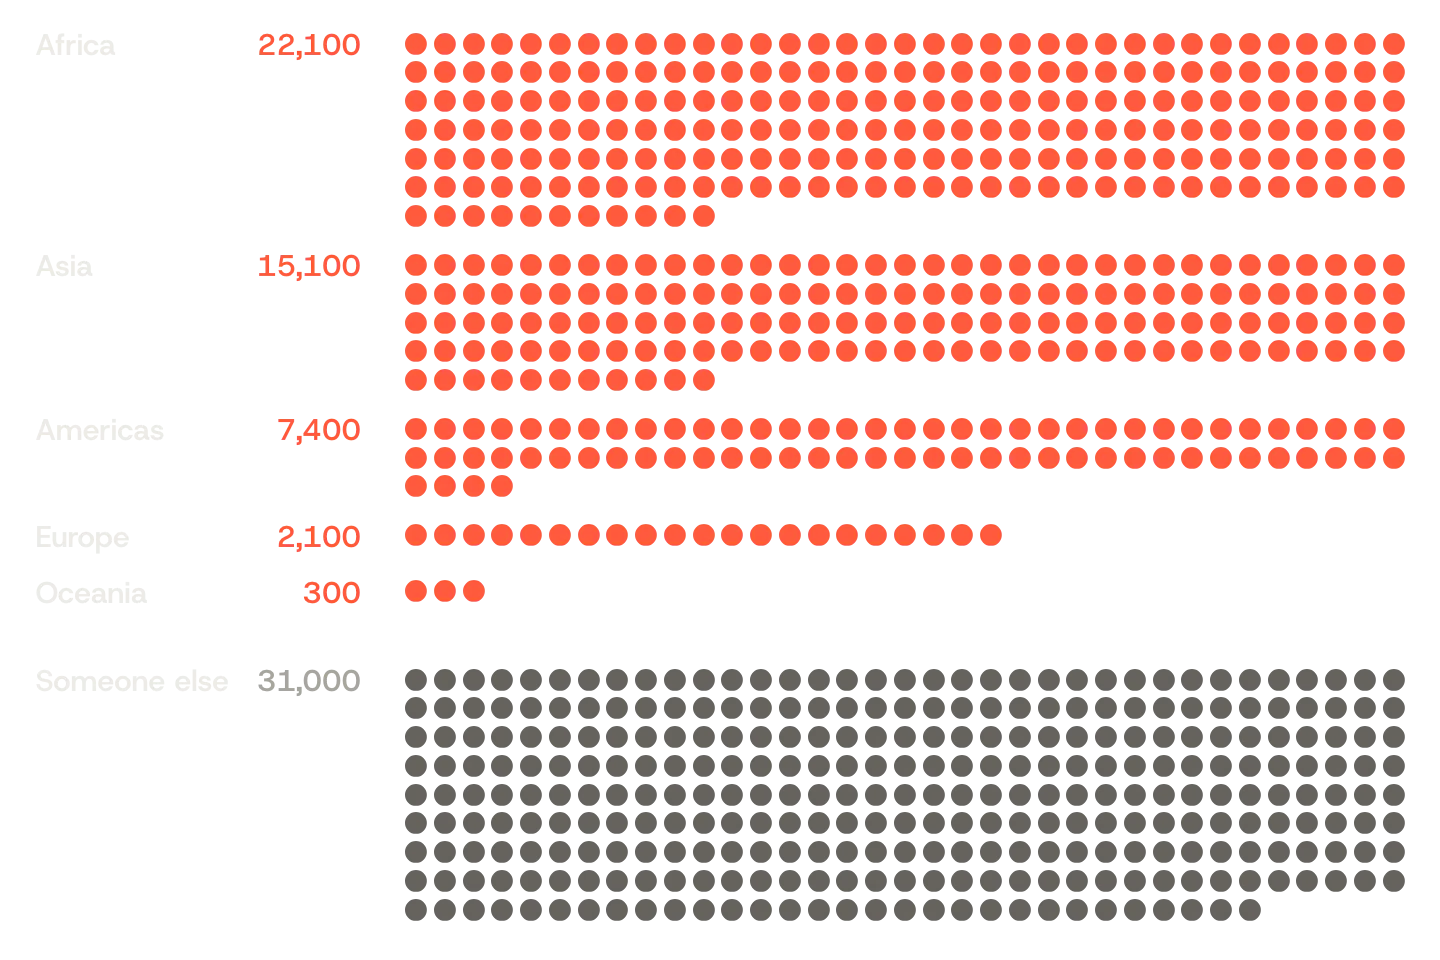
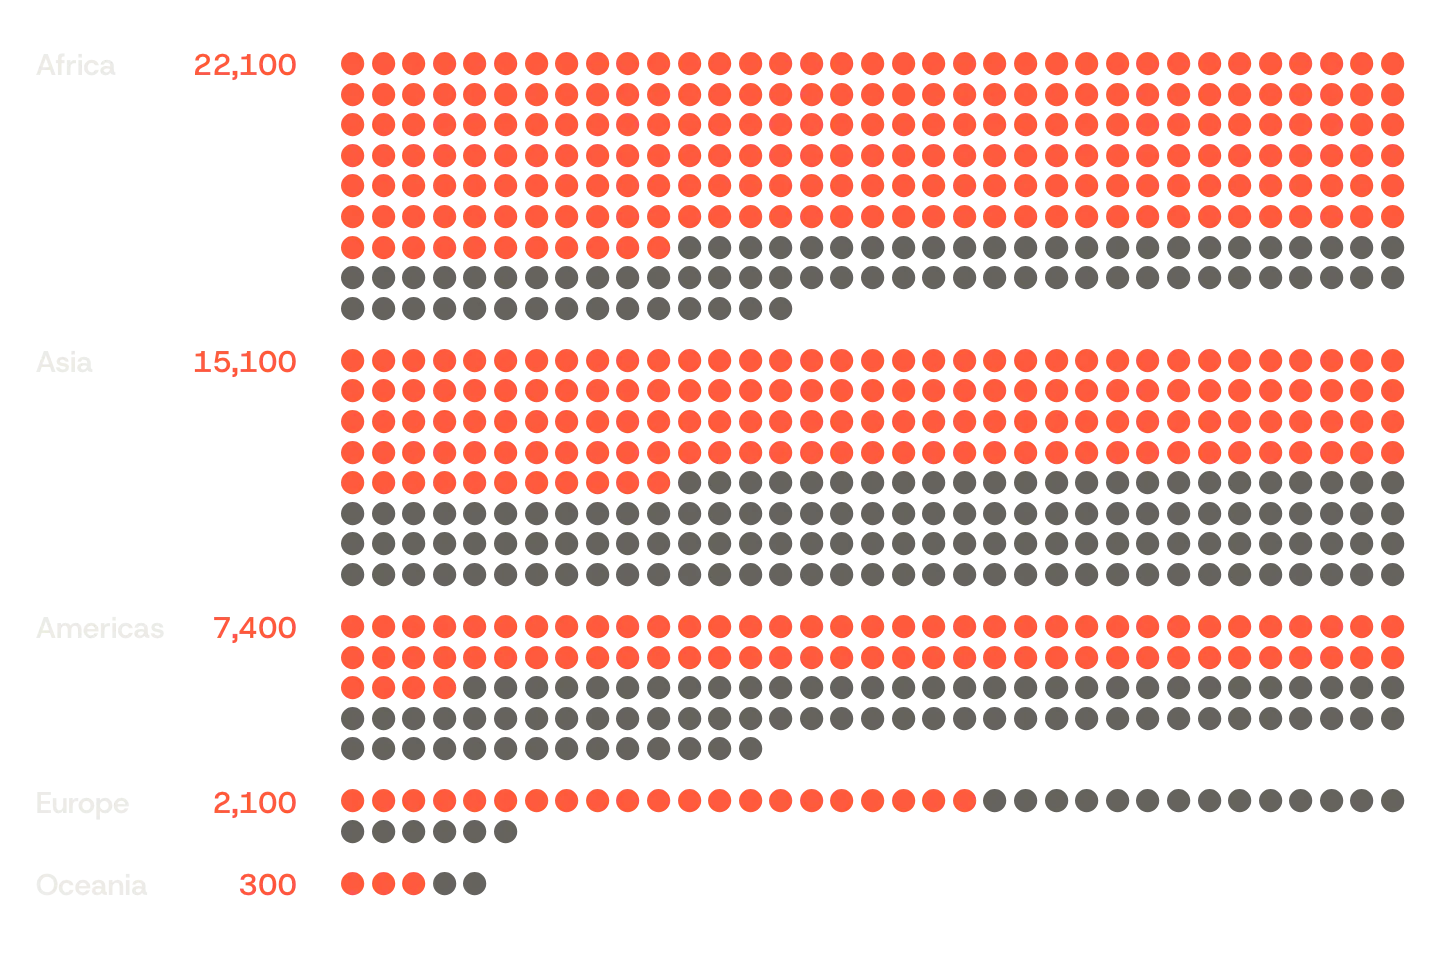
25 Nov: split each region into partner-or-relative and someone else
Each region's block now holds all the women and girls murdered there: red for those
killed by a partner or a relative, then grey for anyone else. The regional totals are
derived (count / share, to the hundred; they sum to 77,500 against the brief's 78,000),
as noted in data.js. A picked block reads "Asia: 15,100 of about 28,000" and one sentence.

diff --git a/2026-11-25/index.html b/2026-11-25/index.html
@@ -4,7 +4,7 @@
   <meta charset="utf-8">
   <meta name="viewport" content="width=device-width, initial-scale=1, viewport-fit=cover">
   <title>In 2025, partners and relatives killed about 47,000 women and girls, 129 a day · casualdata</title>
-  <meta name="description" content="780 dots, one for every 100 of the about 78,000 women and girls murdered in 2025. In red, the 47,000 killed by a current or former partner or another family member, 129 a day, by region: Africa 22,100, Asia 15,100, the Americas 7,400, Europe 2,100, Oceania 300. In grey, the 31,000 killed by someone else.">
+  <meta name="description" content="One dot for every 100 women and girls murdered in 2025, in a block for each region. In red, the 47,000 killed by a current or former partner or another family member, 129 a day: Africa 22,100 of about 29,500, Asia 15,100 of 28,000, the Americas 7,400 of 15,400, Europe 2,100 of 4,100, Oceania 300 of 500. In grey, those killed by someone else.">
   <meta name="theme-color" content="#FFFFFF">
   <meta property="og:type" content="article">
   <meta property="og:title" content="In 2025, partners and relatives killed about 47,000 women and girls, 129 a day">
@@ -13,7 +13,7 @@
   <meta property="og:image" content="https://casualdata.com/2026-11-25/card.png">
   <meta property="og:image:width" content="1200">
   <meta property="og:image:height" content="630">
-  <meta property="og:image:alt" content="780 dots, one for every 100 women and girls murdered in 2025. 470 red dots, in blocks for Africa, Asia, the Americas, Europe and Oceania, are the 47,000 killed by a partner or a relative; 310 grey dots are the 31,000 killed by someone else.">
+  <meta property="og:image:alt" content="Dots in five blocks, one for every 100 women and girls murdered in 2025 in Africa, Asia, the Americas, Europe and Oceania. In each block the red dots, 470 in all, are those killed by a partner or a relative; the grey ones, those killed by someone else. Africa's block is three quarters red, the Americas' and Europe's about half.">
   <meta name="twitter:card" content="summary_large_image">
   <link rel="icon" href="/kit/favicon.svg?v=a2177b6d" type="image/svg+xml">
   <link rel="preload" href="/fonts/host-grotesk-latin.woff2" as="font" type="font/woff2" crossorigin>
@@ -28,11 +28,11 @@
   <meta property="og:site_name" content="casualdata">
   <meta property="og:locale" content="en_US">
   <meta name="twitter:title" content="In 2025, partners and relatives killed about 47,000 women and girls, 129 a day">
-  <meta name="twitter:description" content="780 dots, one for every 100 of the about 78,000 women and girls murdered in 2025. In red, the 47,000 killed by a current or former partner or another family member, 129 a day, by region: Africa 22,100, Asia 15,100, the Americas 7,400, Europe 2,100, Oceania 300. In grey, the 31,000 killed by someone else.">
+  <meta name="twitter:description" content="One dot for every 100 women and girls murdered in 2025, in a block for each region. In red, the 47,000 killed by a current or former partner or another family member, 129 a day: Africa 22,100 of about 29,500, Asia 15,100 of 28,000, the Americas 7,400 of 15,400, Europe 2,100 of 4,100, Oceania 300 of 500. In grey, those killed by someone else.">
   <meta name="twitter:image" content="https://casualdata.com/2026-11-25/card.png">
-  <meta name="twitter:image:alt" content="780 dots, one for every 100 women and girls murdered in 2025. 470 red dots, in blocks for Africa, Asia, the Americas, Europe and Oceania, are the 47,000 killed by a partner or a relative; 310 grey dots are the 31,000 killed by someone else.">
+  <meta name="twitter:image:alt" content="Dots in five blocks, one for every 100 women and girls murdered in 2025 in Africa, Asia, the Americas, Europe and Oceania. In each block the red dots, 470 in all, are those killed by a partner or a relative; the grey ones, those killed by someone else. Africa's block is three quarters red, the Americas' and Europe's about half.">
   <script type="application/ld+json">
-{"@context":"https://schema.org","@graph":[{"@type":"Organization","@id":"https://casualdata.com/#org","name":"casualdata","alternateName":"{casualdata}","url":"https://casualdata.com/","logo":{"@type":"ImageObject","url":"https://casualdata.com/img/og/logo.png","width":512,"height":512},"foundingDate":"2005","description":"casualdata publishes one new interactive data visualization every day: a chart, map or picture of the day's news and data, each on its own dated page with its sources. It also keeps casualdata's data visualization art projects from 2007 to 2011.","founder":{"@type":"Person","@id":"https://mahiryavuz.com/#person","name":"Mahir Yavuz","url":"https://mahiryavuz.com/"},"knowsAbout":["data visualization","information design","data journalism","generative art"]},{"@type":"WebSite","@id":"https://casualdata.com/#website","url":"https://casualdata.com/","name":"casualdata","description":"casualdata publishes one new interactive data visualization every day: a chart, map or picture of the day's news and data, each on its own dated page with its sources. It also keeps casualdata's data visualization art projects from 2007 to 2011.","inLanguage":"en","publisher":{"@id":"https://casualdata.com/#org"}},{"@type":"Article","@id":"https://casualdata.com/2026-11-25/#article","url":"https://casualdata.com/2026-11-25/","mainEntityOfPage":"https://casualdata.com/2026-11-25/","headline":"In 2025, partners and relatives killed about 47,000 women and girls, 129 a day","alternativeHeadline":"Each dot is 100 women and girls murdered in 2025. Red: killed by a partner or a relative. Grey: killed by someone else.","description":"780 dots, one for every 100 of the about 78,000 women and girls murdered in 2025. In red, the 47,000 killed by a current or former partner or another family member, 129 a day, by region: Africa 22,100, Asia 15,100, the Americas 7,400, Europe 2,100, Oceania 300. In grey, the 31,000 killed by someone else.","datePublished":"2026-11-25T07:00:00Z","dateModified":"2026-11-25T07:00:00Z","image":{"@type":"ImageObject","url":"https://casualdata.com/2026-11-25/card.png","width":1200,"height":630,"caption":"780 dots, one for every 100 women and girls murdered in 2025. 470 red dots, in blocks for Africa, Asia, the Americas, Europe and Oceania, are the 47,000 killed by a partner or a relative; 310 grey dots are the 31,000 killed by someone else."},"author":{"@id":"https://casualdata.com/#org"},"publisher":{"@id":"https://casualdata.com/#org"},"isPartOf":{"@id":"https://casualdata.com/#website"},"inLanguage":"en","genre":"data visualization","isAccessibleForFree":true,"keywords":["data visualization","interactive chart","casualdata daily"],"about":{"@id":"https://casualdata.com/2026-11-25/#data"}},{"@type":"Dataset","@id":"https://casualdata.com/2026-11-25/#data","url":"https://casualdata.com/2026-11-25/","name":"In 2025, partners and relatives killed about 47,000 women and girls, 129 a day (data, 25 November 2026)","description":"The data behind the casualdata visualization of 25 November 2026: 780 dots, one for every 100 of the about 78,000 women and girls murdered in 2025. In red, the 47,000 killed by a current or former partner or another family member, 129 a day, by region: Africa 22,100, Asia 15,100, the Americas 7,400, Europe 2,100, Oceania 300. In grey, the 31,000 killed by someone else. Source: UNODC and UN Women, Femicides in 2025: Global estimates of intimate partner/family member femicides (research brief, 24 Nov 2026), fetched 25 Nov 2026 02:36 UTC.","creator":{"@id":"https://casualdata.com/#org"},"datePublished":"2026-11-25","isAccessibleForFree":true,"distribution":{"@type":"DataDownload","encodingFormat":"text/javascript","contentUrl":"https://casualdata.com/2026-11-25/data.js"},"isBasedOn":["https://www.unodc.org/documents/data-and-analysis/briefs/Femicide_Brief_2026.pdf","https://news.un.org/en/story/2026/11/1168863"],"citation":"UNODC and UN Women, Femicides in 2025: Global estimates of intimate partner/family member femicides (research brief, 24 Nov 2026), fetched 25 Nov 2026 02:36 UTC"},{"@type":"BreadcrumbList","itemListElement":[{"@type":"ListItem","position":1,"name":"casualdata","item":"https://casualdata.com/"},{"@type":"ListItem","position":2,"name":"25 November 2026: In 2025, partners and relatives killed about 47,000 women and girls, 129 a day","item":"https://casualdata.com/2026-11-25/"}]}]}
+{"@context":"https://schema.org","@graph":[{"@type":"Organization","@id":"https://casualdata.com/#org","name":"casualdata","alternateName":"{casualdata}","url":"https://casualdata.com/","logo":{"@type":"ImageObject","url":"https://casualdata.com/img/og/logo.png","width":512,"height":512},"foundingDate":"2005","description":"casualdata publishes one new interactive data visualization every day: a chart, map or picture of the day's news and data, each on its own dated page with its sources. It also keeps casualdata's data visualization art projects from 2007 to 2011.","founder":{"@type":"Person","@id":"https://mahiryavuz.com/#person","name":"Mahir Yavuz","url":"https://mahiryavuz.com/"},"knowsAbout":["data visualization","information design","data journalism","generative art"]},{"@type":"WebSite","@id":"https://casualdata.com/#website","url":"https://casualdata.com/","name":"casualdata","description":"casualdata publishes one new interactive data visualization every day: a chart, map or picture of the day's news and data, each on its own dated page with its sources. It also keeps casualdata's data visualization art projects from 2007 to 2011.","inLanguage":"en","publisher":{"@id":"https://casualdata.com/#org"}},{"@type":"Article","@id":"https://casualdata.com/2026-11-25/#article","url":"https://casualdata.com/2026-11-25/","mainEntityOfPage":"https://casualdata.com/2026-11-25/","headline":"In 2025, partners and relatives killed about 47,000 women and girls, 129 a day","alternativeHeadline":"Each dot is 100 women and girls murdered in 2025. Red: killed by a partner or a relative. Grey: killed by someone else.","description":"One dot for every 100 women and girls murdered in 2025, in a block for each region. In red, the 47,000 killed by a current or former partner or another family member, 129 a day: Africa 22,100 of about 29,500, Asia 15,100 of 28,000, the Americas 7,400 of 15,400, Europe 2,100 of 4,100, Oceania 300 of 500. In grey, those killed by someone else.","datePublished":"2026-11-25T07:00:00Z","dateModified":"2026-11-25T07:00:00Z","image":{"@type":"ImageObject","url":"https://casualdata.com/2026-11-25/card.png","width":1200,"height":630,"caption":"Dots in five blocks, one for every 100 women and girls murdered in 2025 in Africa, Asia, the Americas, Europe and Oceania. In each block the red dots, 470 in all, are those killed by a partner or a relative; the grey ones, those killed by someone else. Africa's block is three quarters red, the Americas' and Europe's about half."},"author":{"@id":"https://casualdata.com/#org"},"publisher":{"@id":"https://casualdata.com/#org"},"isPartOf":{"@id":"https://casualdata.com/#website"},"inLanguage":"en","genre":"data visualization","isAccessibleForFree":true,"keywords":["data visualization","interactive chart","casualdata daily"],"about":{"@id":"https://casualdata.com/2026-11-25/#data"}},{"@type":"Dataset","@id":"https://casualdata.com/2026-11-25/#data","url":"https://casualdata.com/2026-11-25/","name":"In 2025, partners and relatives killed about 47,000 women and girls, 129 a day (data, 25 November 2026)","description":"The data behind the casualdata visualization of 25 November 2026: One dot for every 100 women and girls murdered in 2025, in a block for each region. In red, the 47,000 killed by a current or former partner or another family member, 129 a day: Africa 22,100 of about 29,500, Asia 15,100 of 28,000, the Americas 7,400 of 15,400, Europe 2,100 of 4,100, Oceania 300 of 500. In grey, those killed by someone else. Source: UNODC and UN Women, Femicides in 2025: Global estimates of intimate partner/family member femicides (research brief, 24 Nov 2026), fetched 25 Nov 2026 02:36 UTC.","creator":{"@id":"https://casualdata.com/#org"},"datePublished":"2026-11-25","isAccessibleForFree":true,"distribution":{"@type":"DataDownload","encodingFormat":"text/javascript","contentUrl":"https://casualdata.com/2026-11-25/data.js"},"isBasedOn":["https://www.unodc.org/documents/data-and-analysis/briefs/Femicide_Brief_2026.pdf","https://news.un.org/en/story/2026/11/1168863"],"citation":"UNODC and UN Women, Femicides in 2025: Global estimates of intimate partner/family member femicides (research brief, 24 Nov 2026), fetched 25 Nov 2026 02:36 UTC"},{"@type":"BreadcrumbList","itemListElement":[{"@type":"ListItem","position":1,"name":"casualdata","item":"https://casualdata.com/"},{"@type":"ListItem","position":2,"name":"25 November 2026: In 2025, partners and relatives killed about 47,000 women and girls, 129 a day","item":"https://casualdata.com/2026-11-25/"}]}]}
 </script>
   <link rel="prev" href="https://casualdata.com/2026-11-24/">
   <!-- /seo -->
@@ -57,7 +57,7 @@
 </section>
 
 <main class="cd-stage" id="stage">
-  <canvas id="cv" tabindex="0" role="application" aria-roledescription="interactive chart" aria-label="780 dots, one for every 100 women and girls murdered in 2025. In red, the 47,000 killed by a partner or a relative, in blocks by region: Africa 22,100, Asia 15,100, the Americas 7,400, Europe 2,100, Oceania 300. In grey, the 31,000 killed by someone else. Use the arrow keys to step from block to block and hear its count and how many of the women murdered there it is; Escape or Home goes back."></canvas>
+  <canvas id="cv" tabindex="0" role="application" aria-roledescription="interactive chart" aria-label="One dot for every 100 women and girls murdered in 2025, in a block for each region. In each block the red dots are those killed by a partner or a relative, the grey ones those killed by someone else: Africa 22,100 of about 29,500, Asia 15,100 of 28,000, the Americas 7,400 of 15,400, Europe 2,100 of 4,100, Oceania 300 of 500. Use the arrow keys to step from block to block and hear its count and how many of the women murdered there it is; Escape or Home goes back."></canvas>
 </main>
 
 <footer class="cd-foot cd-meta">
@@ -66,7 +66,7 @@
 
 <script src="/kit/days.js"></script>
 <script src="/kit/cd.js?v=b7baf587"></script>
-<script src="data.js?v=e31b0da8"></script>
-<script src="viz.js?v=ec8bdd26"></script>
+<script src="data.js?v=dd4757ad"></script>
+<script src="viz.js?v=6f468f64"></script>
 </body>
 </html>

diff --git a/2026-11-25/viz.js b/2026-11-25/viz.js
@@ -1,20 +1,23 @@
-// 2026-11-25 — women and girls murdered in 2025, one dot for every 100 of them. Red: killed by a
-// partner or a relative, in one block per region, largest first. Grey: killed by anyone else (the
-// brief gives that part only for the world). Picking a block reads it in plain words: its count and
+// 2026-11-25 — women and girls murdered in 2025, one dot for every 100 of them, one block per region,
+// largest first. In each block the red dots come first: killed by a partner or a relative; then the
+// grey: killed by anyone else (derived per region in data.js: count / share). Picking a block reads it in plain words: its count and
 // one sentence, nothing in small print. The page's dek is the key; a shared image draws its own.
 (function () {
 	const C = CD.colors, D = window.FEMICIDE, world = D.rows[0];
 	const fmt = n => n.toLocaleString("en-US");
 	const PER = 100;
-	const others = { slug: "others", name: "Someone else", count: D.allWomen - world.count, other: true };
-	const blocks = [...D.rows.slice(1).sort((a, b) => b.count - a.count), others].map(b => ({ ...b, n: Math.round(b.count / PER) }));
-	const TOTAL = blocks.reduce((a, b) => a + b.n, 0), NB = blocks.length;
+	// n red dots, then m grey ones
+	const blocks = D.rows.slice(1).sort((a, b) => b.count - a.count).map(b => {
+		const n = Math.round(b.count / PER), m = Math.round(b.others / PER);
+		return { ...b, n, m, all: n + m };
+	});
+	const RED = blocks.reduce((a, b) => a + b.n, 0), GREY = blocks.reduce((a, b) => a + b.m, 0), NB = blocks.length;
 	const SENTENCE = `In ${D.year}, partners and relatives killed about ${fmt(world.count)} women and girls, ${D.perDay} a day`;
 	const UNIT = `Each dot: ${PER} women and girls murdered in ${D.year}`;
 
 	let sel = -1;
-	// the opening motion, once on load: the dots are counted in, Africa's first and the grey last, over
-	// the first four fifths; the labels fade in after. Still under reduced motion and once the reader picks.
+	// the opening motion, once on load: the red dots are counted in, Africa's first, then the grey ones,
+	// over the first four fifths; the labels fade in after. Still under reduced motion and once the reader picks.
 	let grow = matchMedia("(prefers-reduced-motion: reduce)").matches ? 1 : 0;
 	const moved = () => 1 - Math.pow(1 - Math.min(1, grow / 0.8), 2);
 	const faded = () => Math.min(1, Math.max(0, (grow - 0.7) / 0.3));
@@ -24,8 +27,7 @@
 	const share = v => v >= 72 ? "Three in four women" : v > 52 ? "More than half of the women" : "About half of the women";
 	function reading(i) {
 		const b = blocks[i];
-		if (b.other) return [`Someone else: ${fmt(b.count)}`, `Four in ten women and girls murdered in ${D.year} were killed by someone other than a partner or a relative.`];
-		return [`${b.name}: ${fmt(b.count)}`, `${share(b.women)} murdered in ${place(b)} were killed by a partner or a relative.`];
+		return [`${b.name}: ${fmt(b.count)} of about ${fmt(b.allWomen)}`, `${share(b.women)} murdered in ${place(b)} were killed by a partner or a relative.`];
 	}
 	const readout = () => sel < 0 ? [SENTENCE] : reading(sel);
 
@@ -58,8 +60,8 @@
 	function heightOf(cols, c, s, side, unit) {
 		const g = gapOf(c, s), lh = side ? 0 : 24 * s, minH = side ? 18 * s : 0;
 		let H = unit ? 30 * s : 0;                               // the unit line, shared images only
-		blocks.forEach((b, k) => { H += lh + Math.max(Math.ceil(b.n / cols) * c, minH) + (k < NB - 1 ? g : 0); });
-		return H + 16 * s;                                       // the extra gap before the grey block
+		blocks.forEach((b, k) => { H += lh + Math.max(Math.ceil(b.all / cols) * c, minH) + (k < NB - 1 ? g : 0); });
+		return H;
 	}
 	function fit(ctx, aw, ah, s, cmax, unit = false) {
 		const L = labelW(ctx, s);
@@ -82,37 +84,40 @@
 	function field(ctx, X, Y, F, s, q, pick) {
 		const { cols, c, side, lw, L } = F, d = c * 0.76, round = d >= 4, g = gapOf(c, s);
 		const snap = v => Math.round(v / q) * q;
-		const arrived = grow >= 1 ? TOTAL : Math.round(TOTAL * moved()), fa = faded();
+		const t = grow >= 1 ? 1 : moved(), redIn = Math.round(RED * Math.min(1, t * 2)), greyIn = Math.round(GREY * Math.max(0, t * 2 - 1)), fa = faded();
 		const hits = [];
 		ctx.textAlign = "left"; ctx.textBaseline = "alphabetic";
 		ctx.font = `400 ${11.5 * s}px ${C.mono}`; ctx.fillStyle = C.ink2;
 		const unit = [UNIT, `Each dot: ${PER} women and girls`, `1 dot = ${PER}`].map(t => t.toUpperCase()).find(t => ctx.measureText(t).width <= F.w - lw) || `1 DOT = ${PER}`;
 		if (F.unit) { ctx.globalAlpha = fa; ctx.fillText(unit, X + lw, Y + 12 * s); ctx.globalAlpha = 1; }
-		let y = Y + (F.unit ? 30 * s : 0), done = 0;
+		let y = Y + (F.unit ? 30 * s : 0), redDone = 0, greyDone = 0;
 		blocks.forEach((b, i) => {
-			if (b.other) y += 16 * s;
-			const dim = pick >= 0 && pick !== i ? 0.2 : 1, col = b.other ? C.ink3 : C.red;
+			const dim = pick >= 0 && pick !== i ? 0.2 : 1;
 			const top = y;
 			// the label: the name in ink, the count in the block's color
 			ctx.globalAlpha = fa * dim; ctx.font = `600 ${nameFs(s)}px ${C.sans}`; ctx.textBaseline = "middle";
 			const ly = side ? y + Math.min(c, 18 * s) / 2 : y + 9 * s;
 			ctx.fillStyle = C.ink; ctx.textAlign = "left"; ctx.fillText(b.name, X, ly);
-			ctx.fillStyle = b.other ? C.ink2 : C.red;
+			ctx.fillStyle = C.red;
 			if (side) { ctx.textAlign = "right"; ctx.fillText(fmt(b.count), X + lw - 22 * s, ly); }
 			else ctx.fillText(fmt(b.count), X + ctx.measureText(b.name + "  ").width + 4 * s, ly);
 			ctx.textAlign = "left"; ctx.textBaseline = "alphabetic";
 			if (!side) y += 24 * s;
-			// the dots, row by row from the top left
-			const n = Math.max(0, Math.min(b.n, arrived - done));
-			ctx.globalAlpha = dim; ctx.fillStyle = col; ctx.beginPath();
-			for (let k = 0; k < n; k++) {
-				const cx = snap(X + lw + (k % cols) * c), cy = snap(y + Math.floor(k / cols) * c);
-				if (round) { ctx.moveTo(cx + d, cy + d / 2); ctx.arc(cx + d / 2, cy + d / 2, d / 2, 0, 6.2832); }
-				else ctx.rect(cx, cy, Math.max(q, snap(d)), Math.max(q, snap(d)));
+			// the dots, row by row from the top left: the red ones, then the grey ones
+			const n = Math.max(0, Math.min(b.n, redIn - redDone)), m = Math.max(0, Math.min(b.m, greyIn - greyDone));
+			ctx.globalAlpha = dim;
+			for (const [from, to, col] of [[0, n, C.red], [b.n, b.n + m, C.ink3]]) {
+				ctx.fillStyle = col; ctx.beginPath();
+				for (let k = from; k < to; k++) {
+					const cx = snap(X + lw + (k % cols) * c), cy = snap(y + Math.floor(k / cols) * c);
+					if (round) { ctx.moveTo(cx + d, cy + d / 2); ctx.arc(cx + d / 2, cy + d / 2, d / 2, 0, 6.2832); }
+					else ctx.rect(cx, cy, Math.max(q, snap(d)), Math.max(q, snap(d)));
+				}
+				ctx.fill();
 			}
-			ctx.fill(); ctx.globalAlpha = 1;
-			done += b.n;
-			const bh = Math.max(Math.ceil(b.n / cols) * c, side ? 18 * s : 0);
+			ctx.globalAlpha = 1;
+			redDone += b.n; greyDone += b.m;
+			const bh = Math.max(Math.ceil(b.all / cols) * c, side ? 18 * s : 0);
 			hits.push({ i, x0: X, y0: top - g / 2, x1: X + F.w, y1: y + bh + g / 2 });
 			y += bh + g;
 		});

diff --git a/2026-11-25/data.js b/2026-11-25/data.js
@@ -17,7 +17,11 @@
 //   allWomen = women and girls intentionally killed worldwide in 2025; perDay = count / 365 (p. 1).
 //   menOfAll / womenOfAll = per cent of all homicide victims in 2025 who were men / women (p. 13).
 // Second check: UN News, https://news.un.org/en/story/2026/11/1168863 (47,000; 60 per cent of 78,000).
-// Made by make_data.py.
+// Per region (derived here, not printed in the brief): allWomen = women and girls murdered = count / women%,
+//   rounded to the hundred; others = allWomen - count, those killed by anyone but a partner or a relative.
+//   The regions' allWomen sum to 77,500 against the brief's world 78,000; the World row's own is 78,300 by the
+//   same sum (47,000 / 60%), so the World row has neither; the world's own total is allWomen above.
+// Made by make_data.py; allWomen and others per row added by hand on 25 Nov 2026 (see above).
 window.FEMICIDE = {
  "year": 2025,
  "allWomen": 78000,
@@ -43,7 +47,9 @@ window.FEMICIDE = {
    "count": 22100,
    "low": 15200,
    "high": 29000,
-   "rate": 2.9
+   "rate": 2.9,
+   "allWomen": 29500,
+   "others": 7400
   },
   {
    "slug": "oceania",
@@ -53,7 +59,9 @@ window.FEMICIDE = {
    "count": 300,
    "low": 200,
    "high": 400,
-   "rate": 1.1
+   "rate": 1.1,
+   "allWomen": 500,
+   "others": 200
   },
   {
    "slug": "asia",
@@ -63,7 +71,9 @@ window.FEMICIDE = {
    "count": 15100,
    "low": 12500,
    "high": 17600,
-   "rate": 0.6
+   "rate": 0.6,
+   "allWomen": 28000,
+   "others": 12900
   },
   {
    "slug": "europe",
@@ -74,7 +84,9 @@ window.FEMICIDE = {
    "low": 2000,
    "high": 2200,
    "rate": 0.5,
-   "partner": 63
+   "partner": 63,
+   "allWomen": 4100,
+   "others": 2000
   },
   {
    "slug": "americas",
@@ -85,7 +97,9 @@ window.FEMICIDE = {
    "low": 7300,
    "high": 7600,
    "rate": 1.4,
-   "partner": 70
+   "partner": 70,
+   "allWomen": 15400,
+   "others": 8000
   }
  ]
 };
